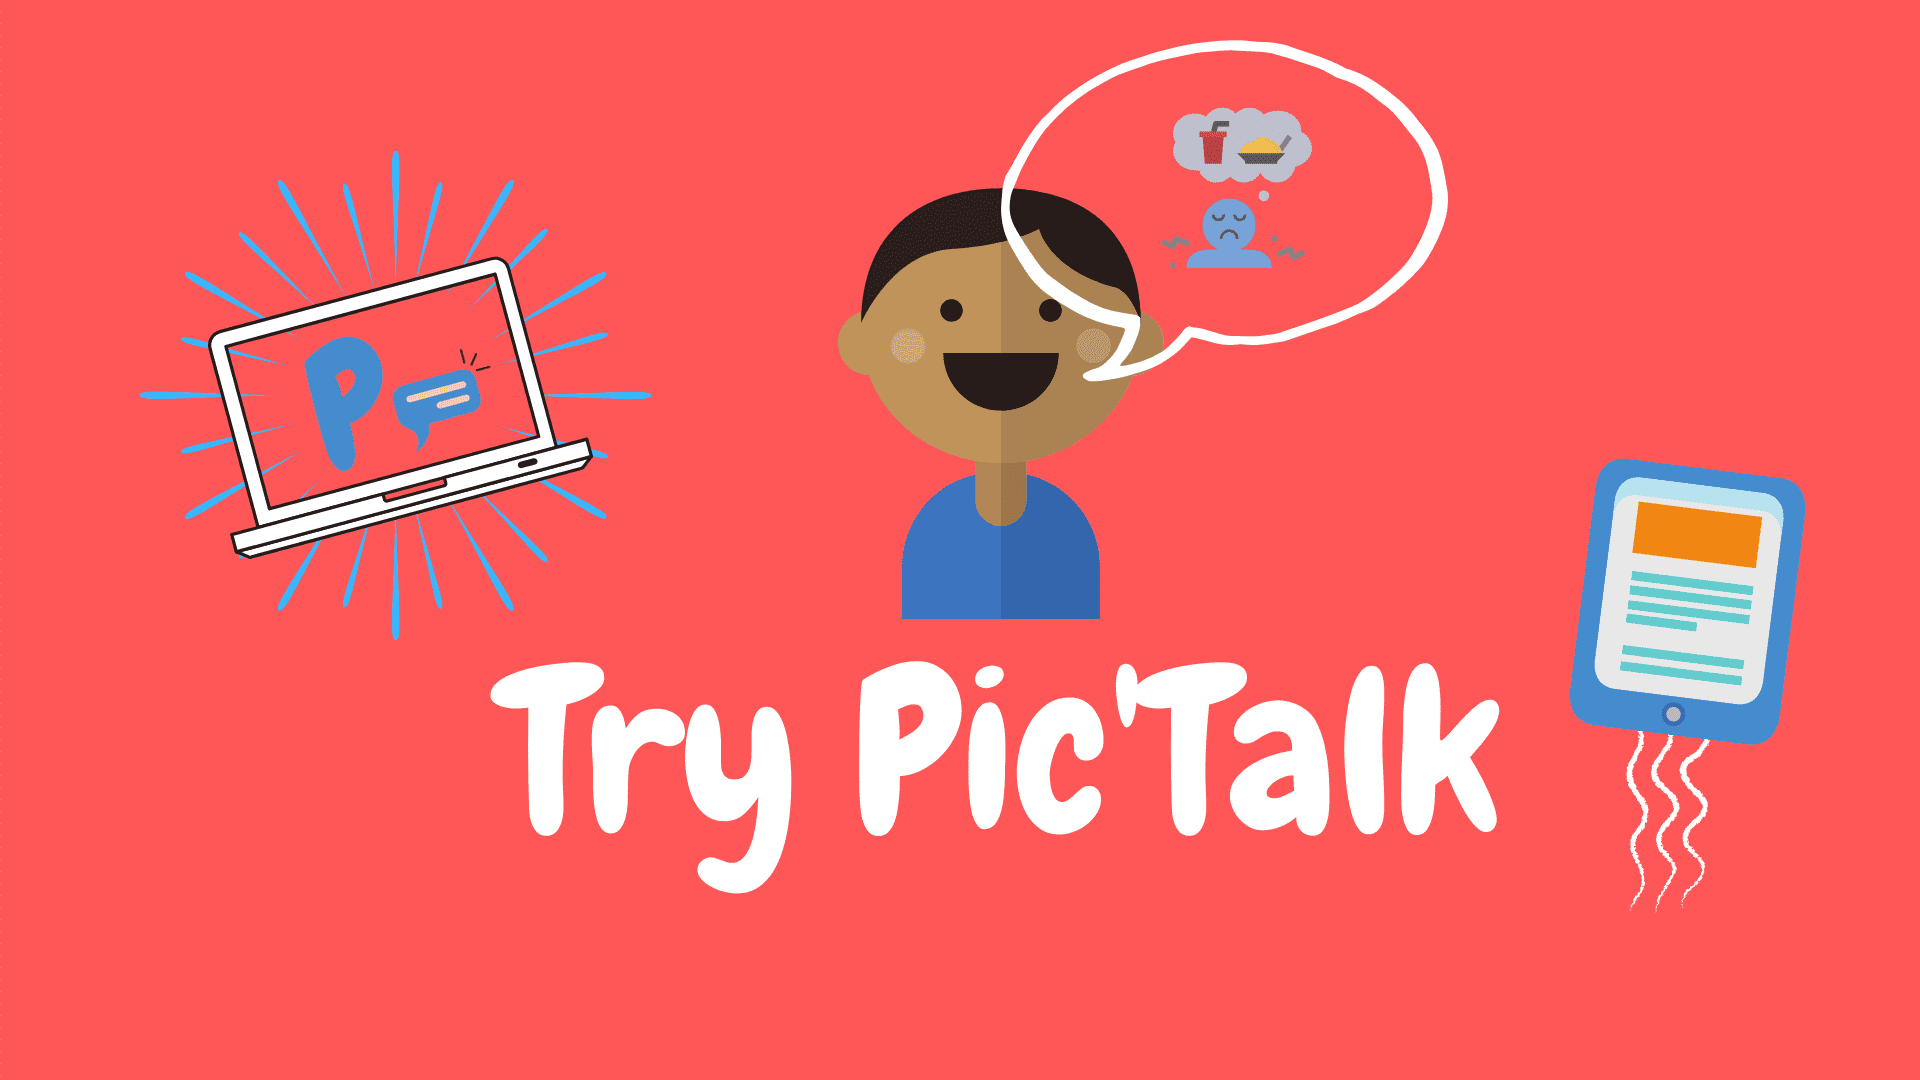
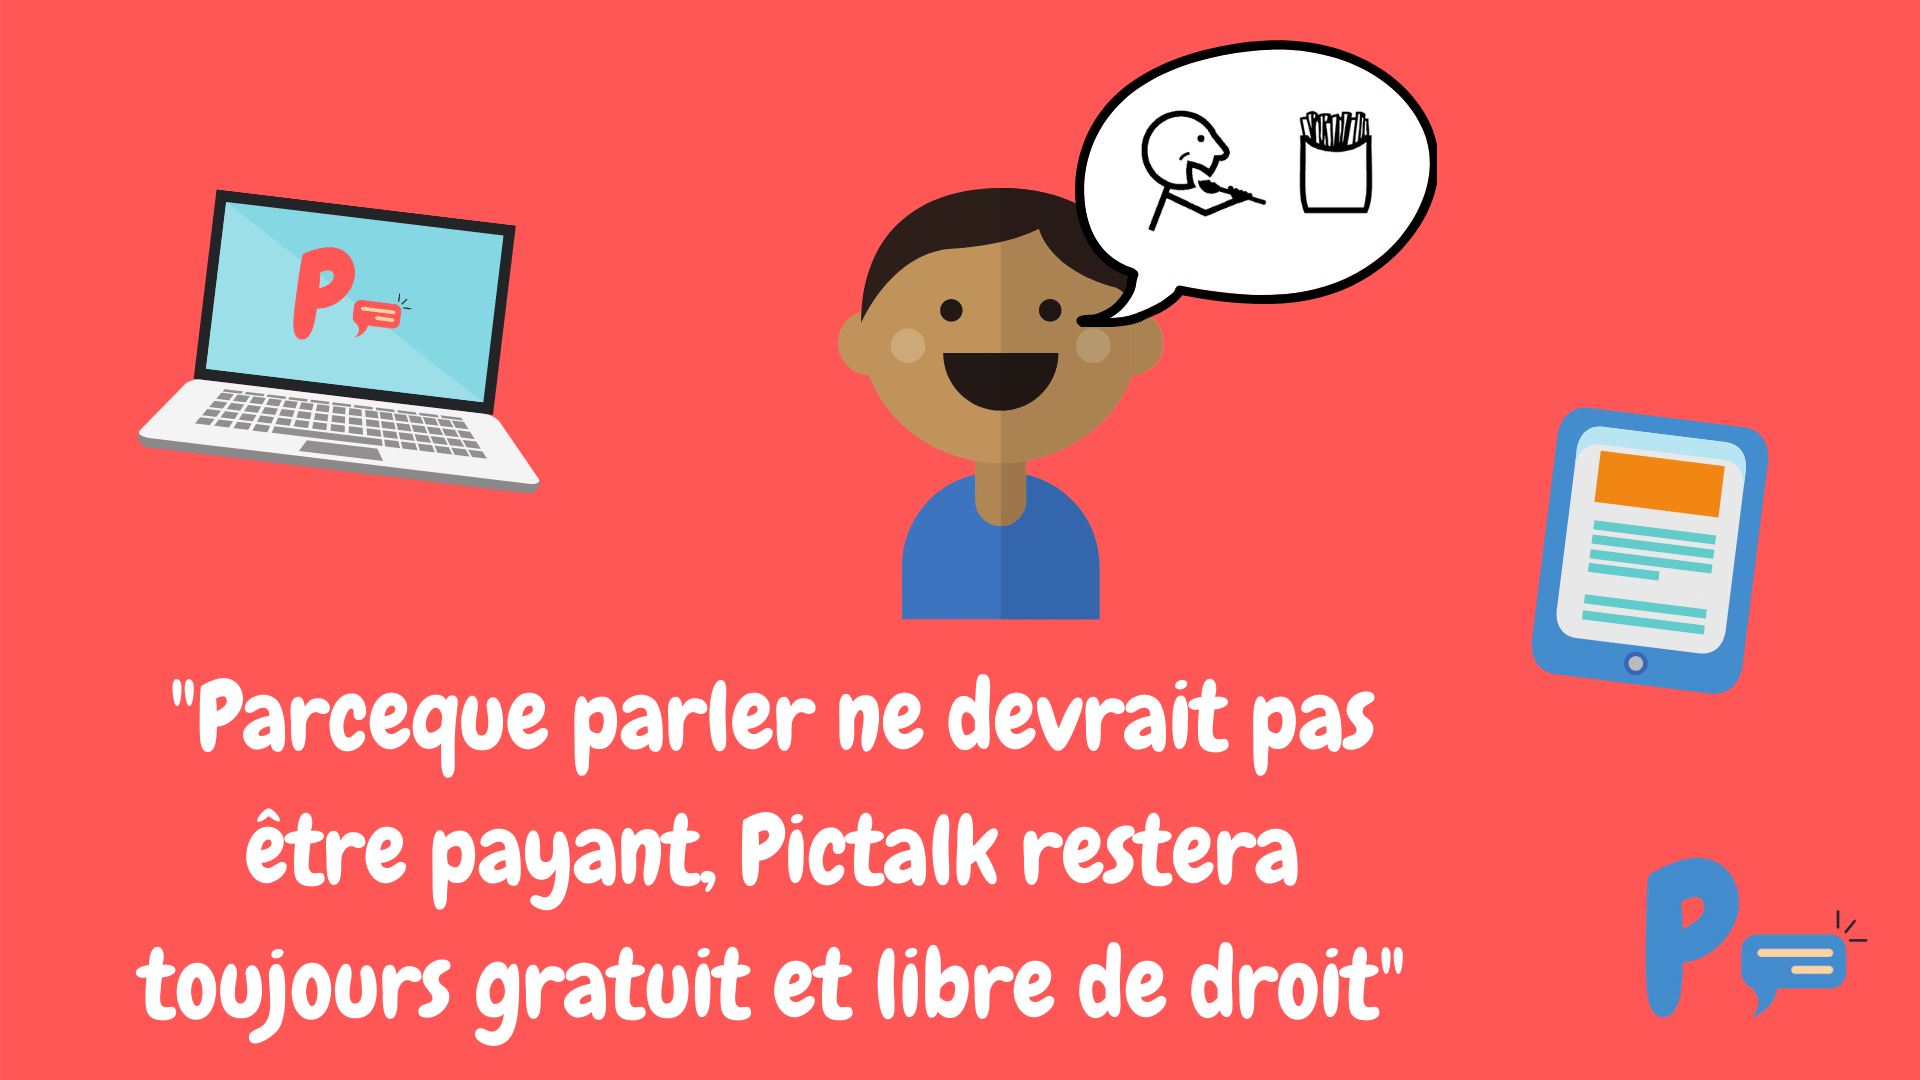
ça part en prod

diff --git a/pages/index.vue b/pages/index.vue
@@ -3,15 +3,7 @@
 		<div class="container">
 				<b-image lazy alt="A little boy talking thanks to Pictalk" 
 				:srcset="require('@/assets/pictalk_compressed.png').srcSet"
-				ratio="2by1"
 				></b-image>
-				<b-button
-					class="signup-button"
-					@click="openSignUpModal()"
-					type="is-primary"
-					inverted
-					>{{ $t('SignUp')}}</b-button
-				>
 		</div>
 		<br>
 		<div class="container">
@@ -46,11 +38,6 @@
 		<br>
 		<br>
 		<div class="container">
-			<b-message type="is-primary">
-				<div class="subtitle">
-					{{ $t('Slogan')}}
-				</div>
-			</b-message>
 			<b-message type="is-success">
 				<div class="subtitle">
 					{{ $t('OfflinePictalk')}}
